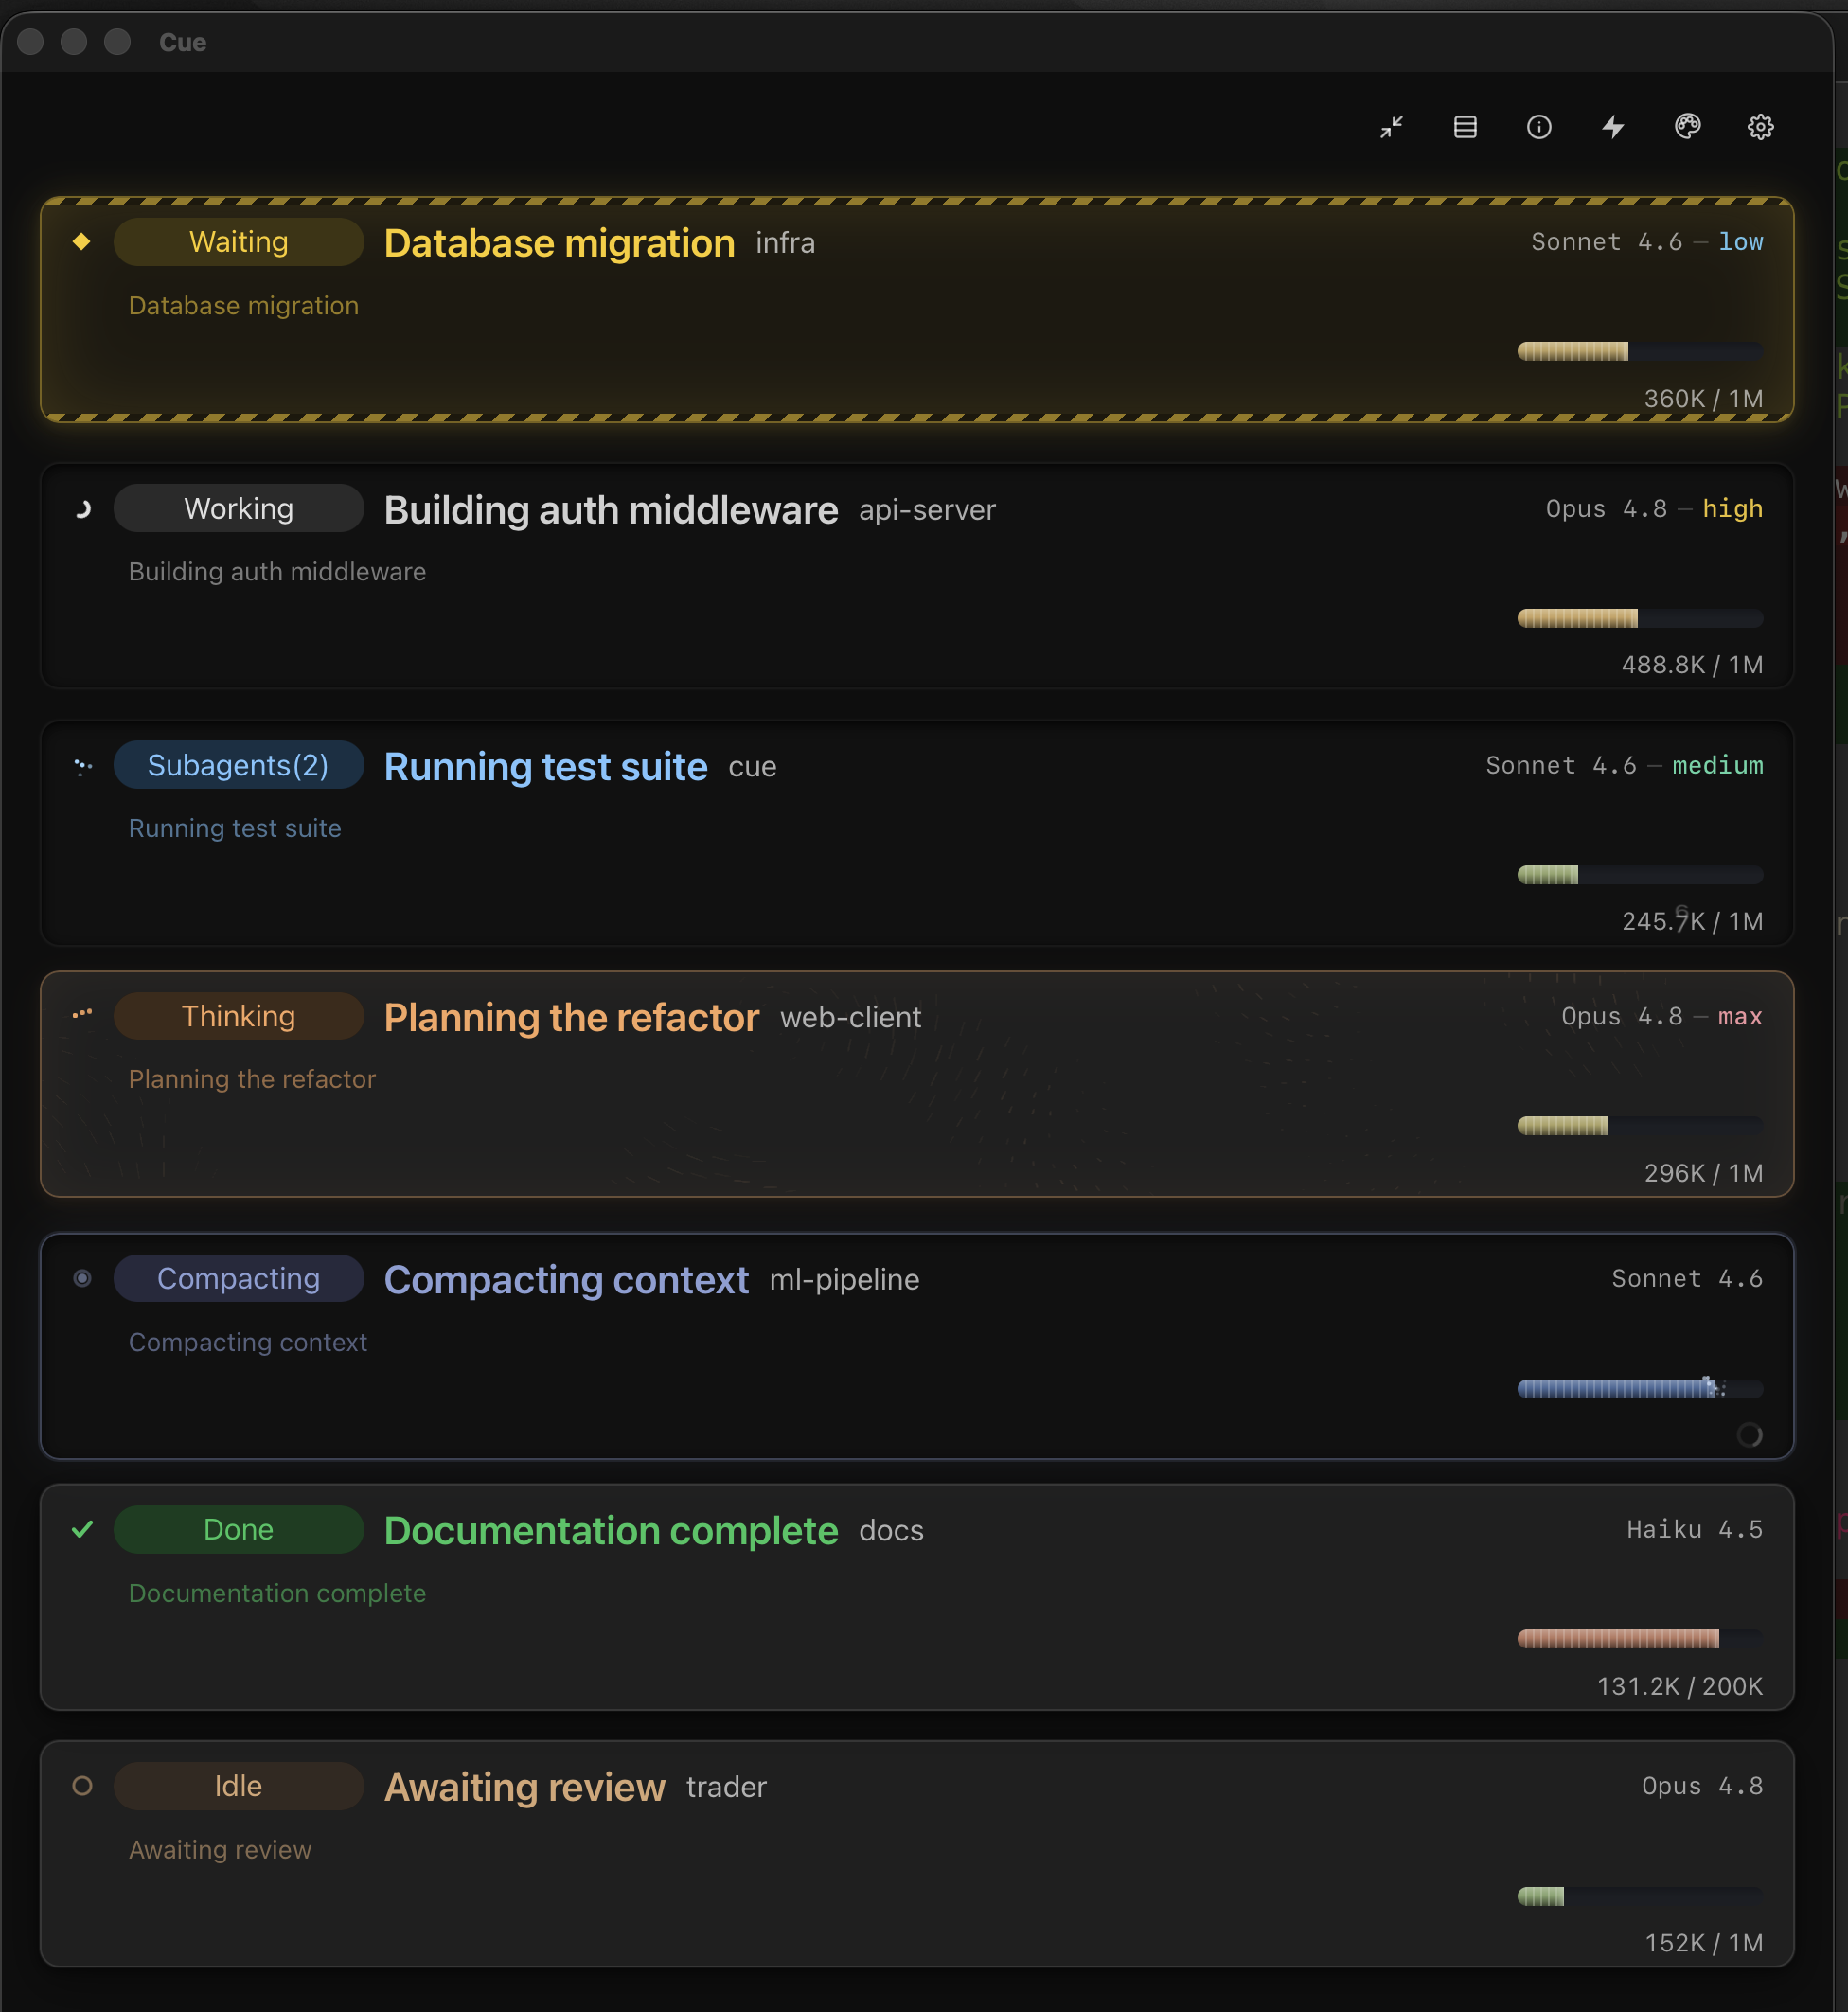
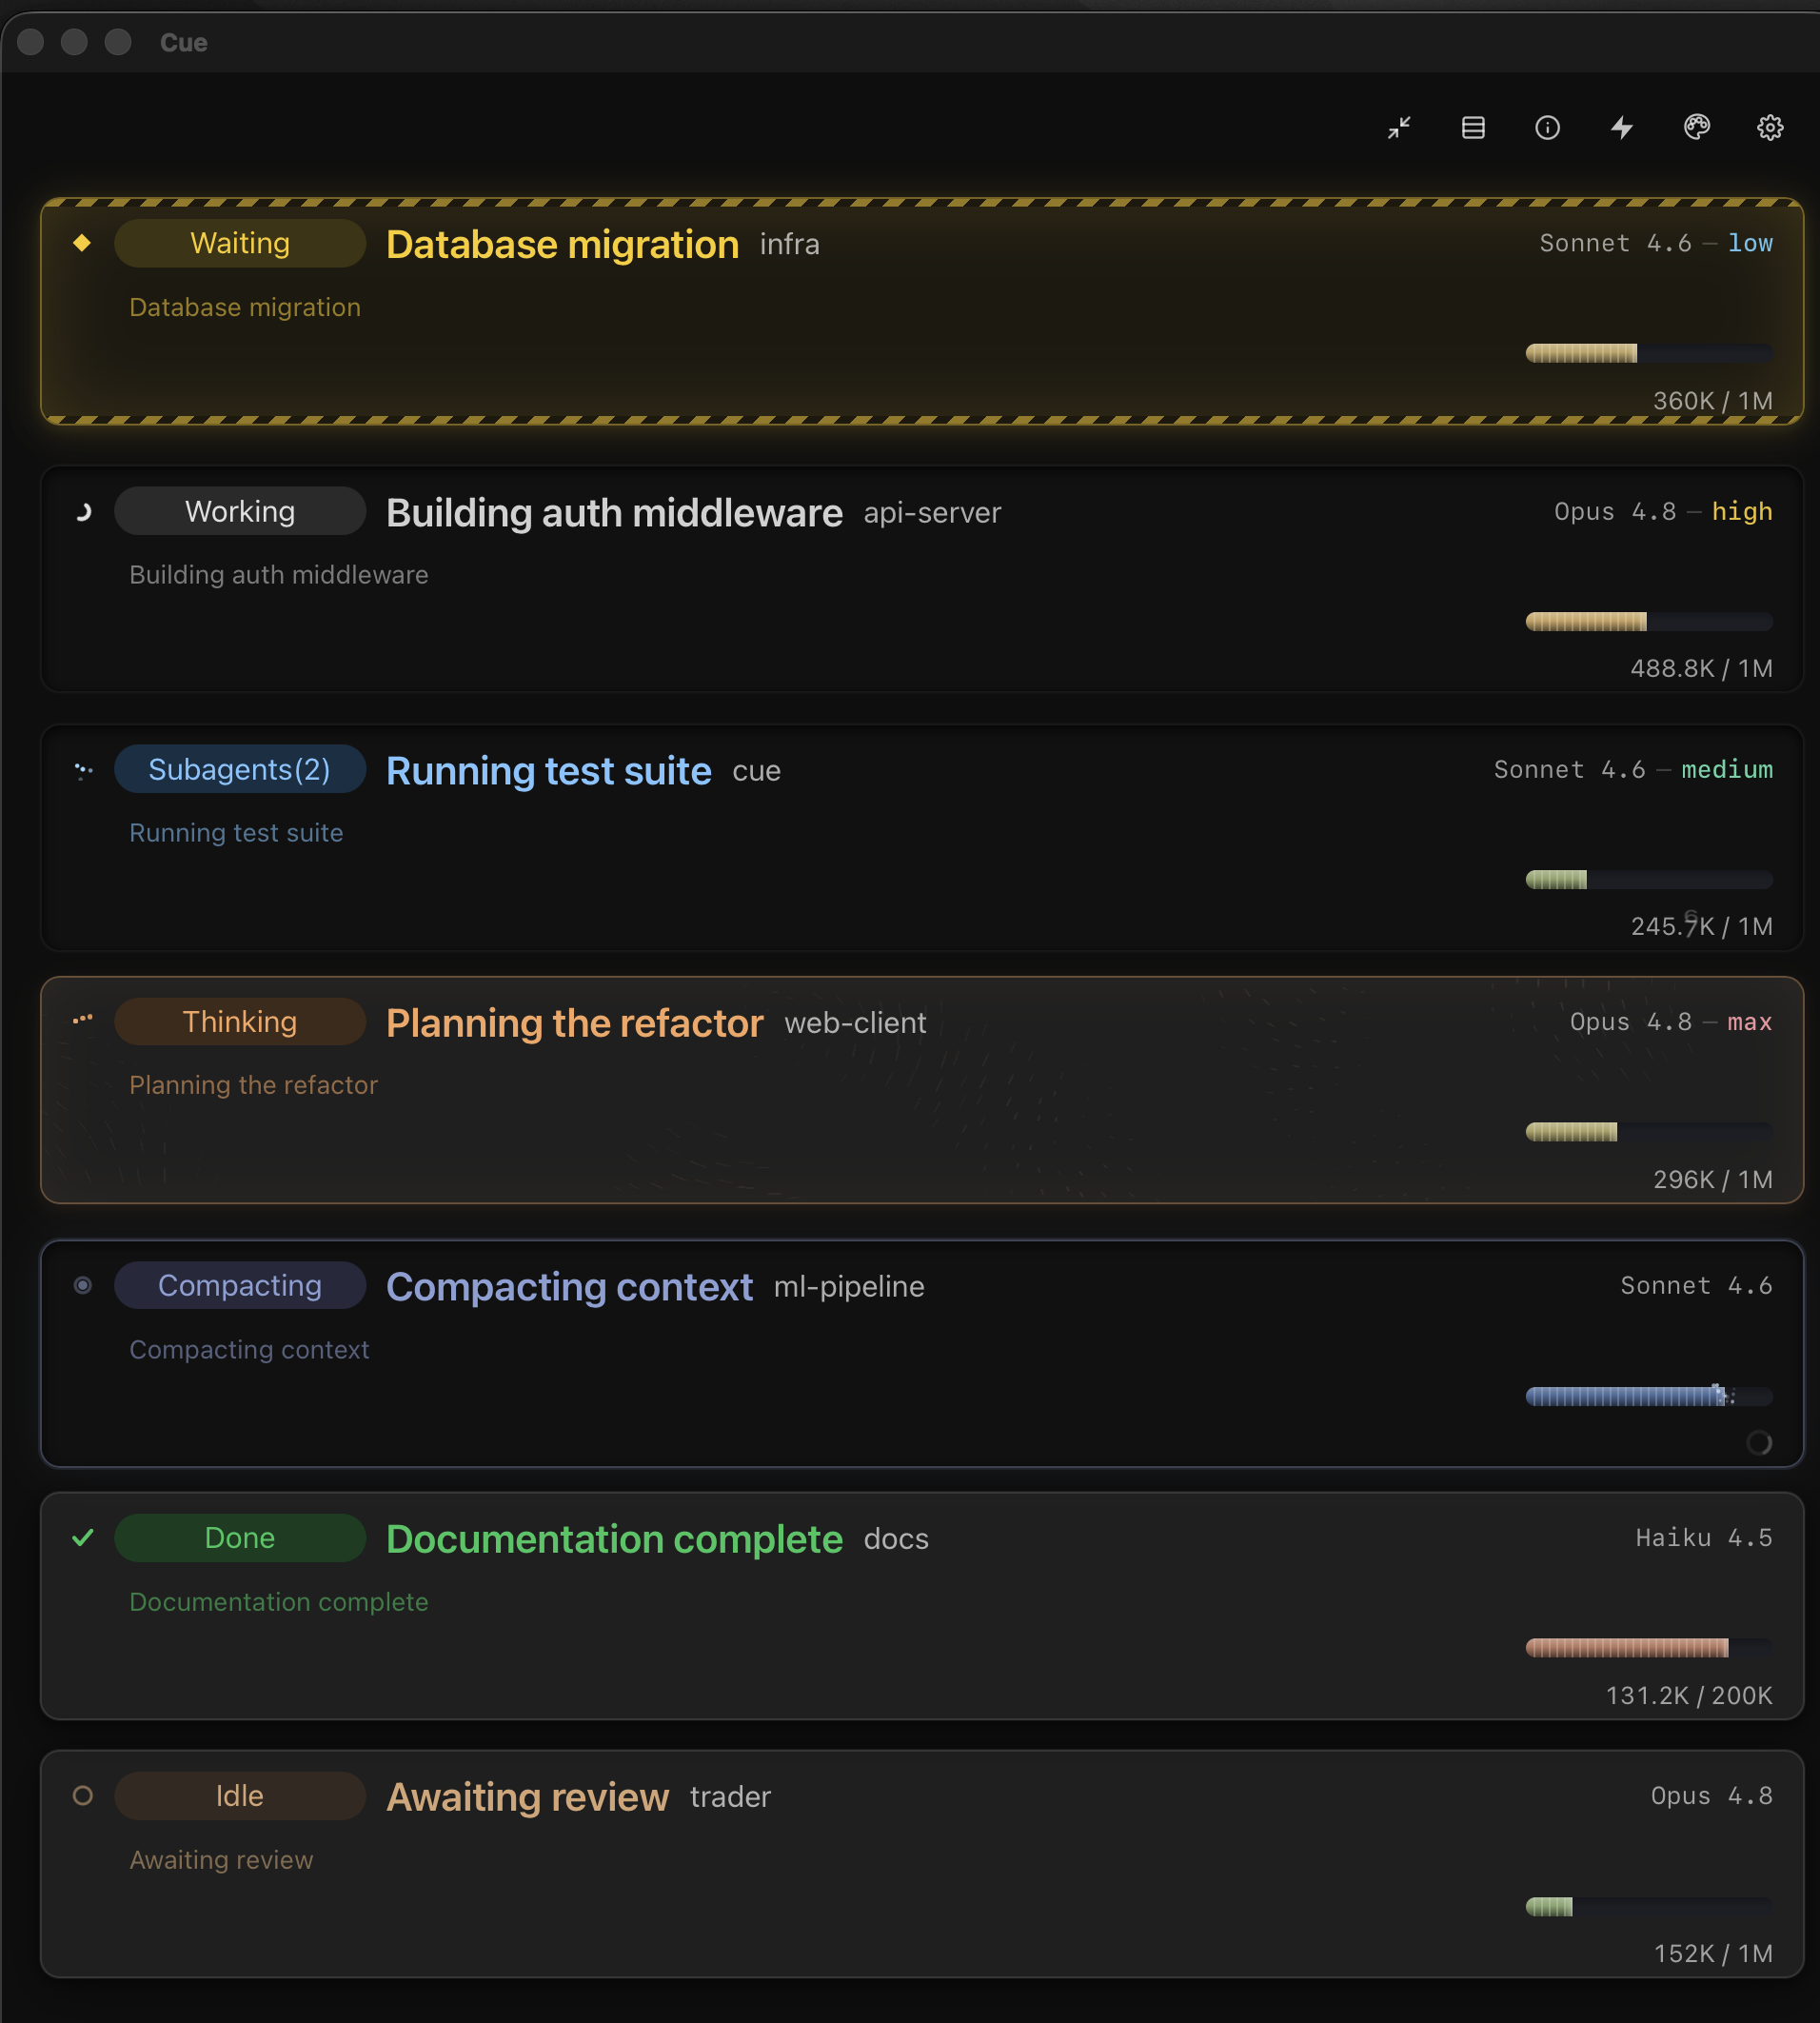
docs(readme): crop code-bleed from dashboard shot, move menu bar beside it
Crop the right edge of the dashboard screenshot to remove a code editor
showing through behind the window, and lay the menu-bar popover out to
the top-right of the desktop view instead of below the status table.

diff --git a/README.md b/README.md
@@ -7,9 +7,12 @@ A real-time session monitor for Claude Code — see at a glance if Claude is wor
 ![License](https://img.shields.io/badge/License-MIT-blue)
 [![Buy Me A Coffee](https://img.shields.io/badge/Buy_Me_A_Coffee-FFDD00?logo=buymeacoffee&logoColor=black)](https://buymeacoffee.com/avonbereghy)
 
-<p align="center">
-  <img src="assets/dashboard-demo.png" width="640" alt="Cue dashboard showing multiple Claude Code sessions in working, thinking, compacting, subagent, waiting, done, and idle states">
-</p>
+<table align="center">
+  <tr>
+    <td align="center" valign="top"><img src="assets/dashboard-demo.png" width="560" alt="Cue dashboard showing multiple Claude Code sessions in working, thinking, compacting, subagent, waiting, done, and idle states"></td>
+    <td align="center" valign="top"><img src="assets/menubar.png" width="230" alt="Cue menu bar popover showing per-session status, model, and token usage"></td>
+  </tr>
+</table>
 
 ## Status Indicators
 
@@ -25,11 +28,7 @@ Each Claude Code session appears as a colored dot in your menu bar / system tray
 | Dim white | Idle |
 | Hollow ring | No active sessions |
 
-Multiple sessions show as a grid of dots — see all your sessions at once. Click the icon for a popover with every session's status, model, and token usage:
-
-<p align="center">
-  <img src="assets/menubar.png" width="340" alt="Cue menu bar popover showing per-session status, model, and token usage">
-</p>
+Multiple sessions show as a grid of dots — see all your sessions at once. Click the icon for a popover with every session's status, model, and token usage (shown top-right above).
 
 ## Features
 